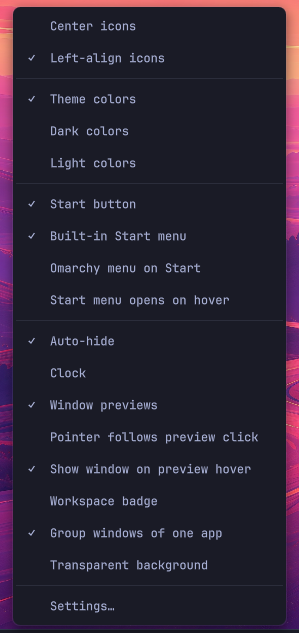
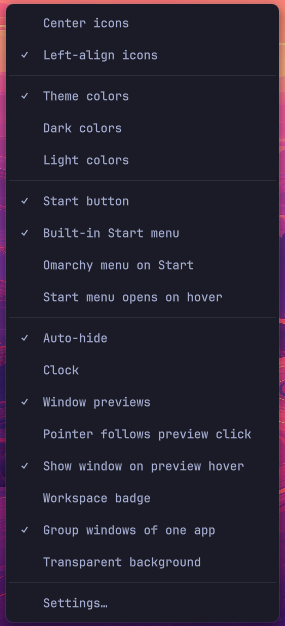
Take screenshots from the shell's own layout: omarchy-shell layout reports Items and open menus as rectangles
Also fixes the Item menu being one padding short at the bottom, which left its last row against the edge.

diff --git a/Service.qml b/Service.qml
@@ -668,6 +668,17 @@ Item {
     // For a Super-key binding: `omarchy-shell io.github.bmaltais.startbar startMenu`.
     function startMenu(): void { root.startMenuRequested(root.focusedScreenName(), "toggle") }
     function closeStartMenu(): void { root.startMenuRequested(root.focusedScreenName(), "close") }
+    // Where the Dock's Items and any open menu are on the focused monitor, as
+    // JSON (see `layout` in the panel). For the scripts that drive the pointer.
+    function layout(): string {
+      var name = root.focusedScreenName()
+      for (var i = 0; i < panels.instances.length; i++) {
+        if (panels.instances[i].screen && panels.instances[i].screen.name === name) {
+          return JSON.stringify(panels.instances[i].layout())
+        }
+      }
+      return "{}"
+    }
   }
 
   FileView {
@@ -1337,6 +1348,7 @@ Item {
   }
 
   Variants {
+    id: panels
     model: Quickshell.screens
 
     PanelWindow {
@@ -1384,6 +1396,46 @@ Item {
       // Whether the Dock/bar is on screen: always, unless it auto-hides, in
       // which case it follows the Revealed state.
       readonly property bool shown: !root.autoHide || revealState.revealed
+
+      // Where everything is on this monitor, in pixels from its top-left
+      // corner, for `omarchy-shell <id> layout` (scripts/screenshots.sh and
+      // scripts/pointer.sh read it instead of finding things in a screenshot):
+      // { monitor, items: [{ key, kind, appId, count, x, y, width, height }],
+      //   menus: { item, bar, preview } } with a menu's rectangle when it is open.
+      // The panel covers the monitor less any bar reserved at an edge, so its
+      // own offset is the monitor's size less its own.
+      function layout() {
+        var ox = panel.screen.width - panel.width
+        var oy = panel.screen.height - panel.height
+        function rect(x, y, w, h) {
+          return { x: Math.round(x + ox), y: Math.round(y + oy), width: Math.round(w), height: Math.round(h) }
+        }
+        function ofItem(it) {
+          var p = it.mapToItem(null, 0, 0)
+          return rect(p.x, p.y, it.width, it.height)
+        }
+        // A popup window is as big as its menu plus the shadow's room all round.
+        function ofPopup(w) {
+          return w.visible ? rect(w.relativeX + root.menuShadow, w.relativeY + root.menuShadow,
+            w.implicitWidth - root.menuShadow * 2, w.implicitHeight - root.menuShadow * 2) : null
+        }
+        var items = []
+        for (var i = 0; i < repeater.count; i++) {
+          var it = repeater.itemAt(i)
+          if (!it || !it.modelData) continue
+          var r = ofItem(it)
+          r.key = it.key
+          r.kind = it.modelData.kind
+          r.appId = root.menuAppId(it.modelData) || ""
+          r.count = it.modelData.count || 1
+          items.push(r)
+        }
+        return {
+          monitor: panel.screen.name,
+          items: items,
+          menus: { item: ofPopup(contextMenu), bar: ofPopup(barMenu), preview: ofPopup(previewPopup) },
+        }
+      }
 
       // Full-width, above any bar reservation because it's anchored to
       // this panel's own bottom edge, which ExclusionMode.Normal already
@@ -2857,7 +2909,7 @@ Item {
         visible: false
         color: "transparent"
         implicitWidth: contextMenu.rowWidth + root.menuShadow * 2
-        implicitHeight: menuColumn.implicitHeight + root.menuShadow * 2
+        implicitHeight: menuColumn.implicitHeight + root.menuPad * 2 + root.menuShadow * 2
 
         onVisibleChanged: {
           revealState.set("menu", contextMenu.visible)

diff --git a/CONTRIBUTING.md b/CONTRIBUTING.md
@@ -103,7 +103,7 @@ It restarts the shell with this checkout, fails if the plugin logs anything, and
 
 The README images are in `screenshots/`. Retake one only when its subject changed: a new row in the settings window changes `settings.png`; a new look for the Dock or Start menu changes `taskbar.png` and the `start-menu*.png` and `search.png` files; the Preview and the bar's menu have `preview.png` and `right-click.png`; an icon's menu has `pin-menu.png` and `window-menu.png`.
 
-Run `scripts/screenshots.sh` (needs `ydotool`; see `docs/hyprland-notes.md` "Moving the pointer"). It retakes every image the same way: on an empty workspace, with two throwaway windows for the Preview, the real pointer for the hover and the right-click, and the crops anchored to the monitor's bottom-left corner like the current files. It leaves the results in a scratch directory and prints each size beside the file it would replace; `--only NAME,NAME` takes some, `--install` copies them over `screenshots/`. Look at every image before committing it: the Dock shows your pins and open windows, and the wallpaper and theme are yours, so the images change from release to release for those reasons alone. The Preview shows the throwaway windows' group with a letter tile, not an App's icon.
+Run `scripts/screenshots.sh` (needs `ydotool`; see `docs/hyprland-notes.md` "Moving the pointer"). It retakes every image the same way: on an empty workspace, with two throwaway windows for the Preview, the real pointer for the hover and the right-click, and the crops anchored to the monitor's bottom-left corner like the current files. It finds the Items and menus with `omarchy-shell io.github.bmaltais.startbar layout`, which prints the Dock's Items and any open menu as JSON rectangles in pixels from the monitor's top-left corner (use it from your own pointer scripts too). It leaves the results in a scratch directory and prints each size beside the file it would replace; `--only NAME,NAME` takes some, `--install` copies them over `screenshots/`. Look at every image before committing it: the Dock shows your pins and open windows, and the wallpaper and theme are yours, so the images change from release to release for those reasons alone. The Preview shows the throwaway windows' group with a letter tile, not an App's icon.
 
 Releasing is described in [docs/agents/release.md](docs/agents/release.md).
 
